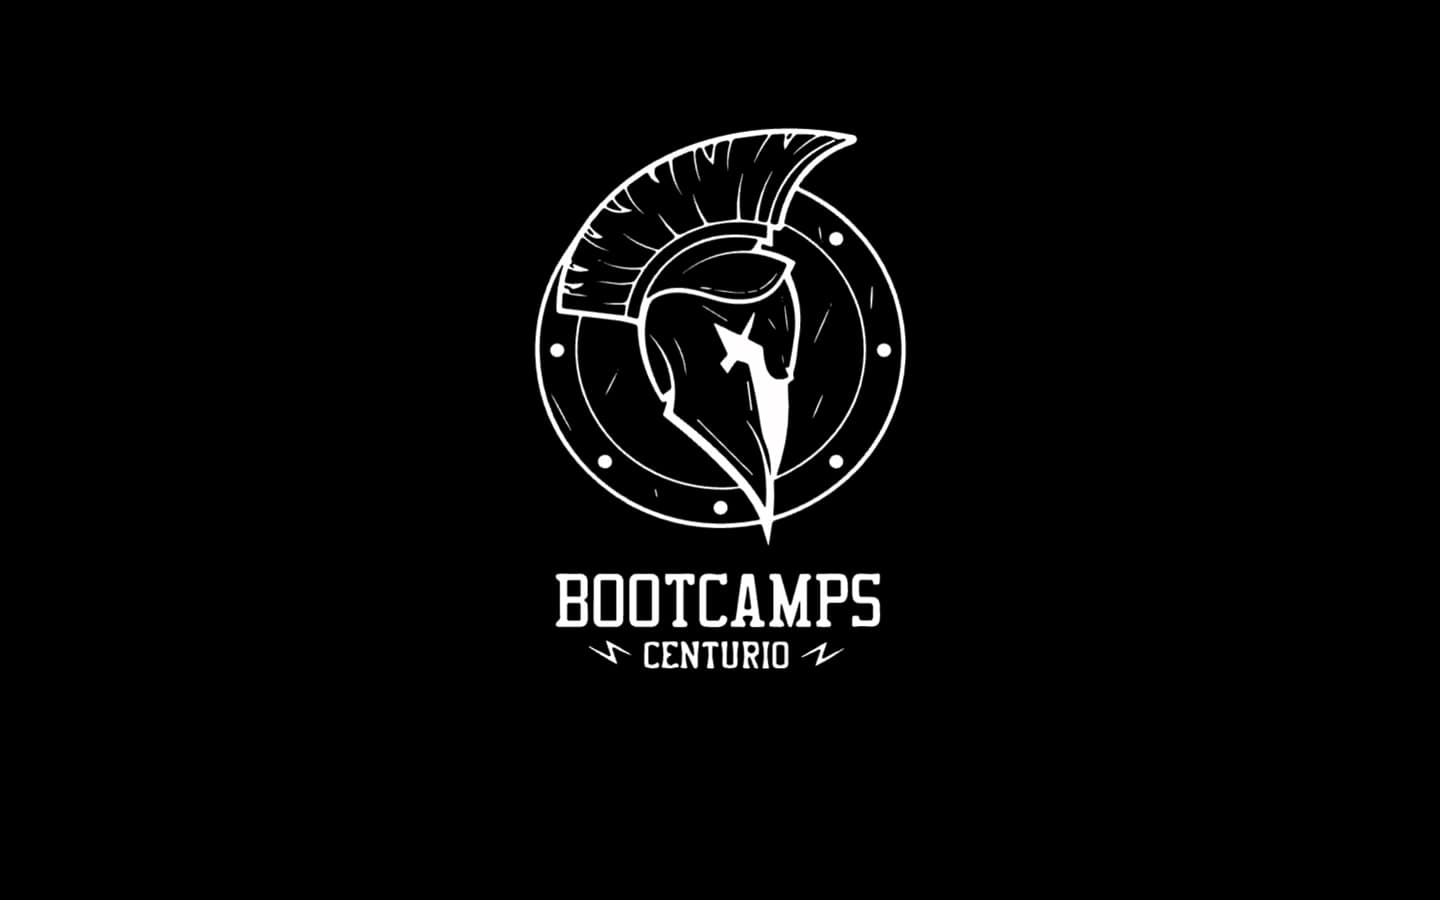
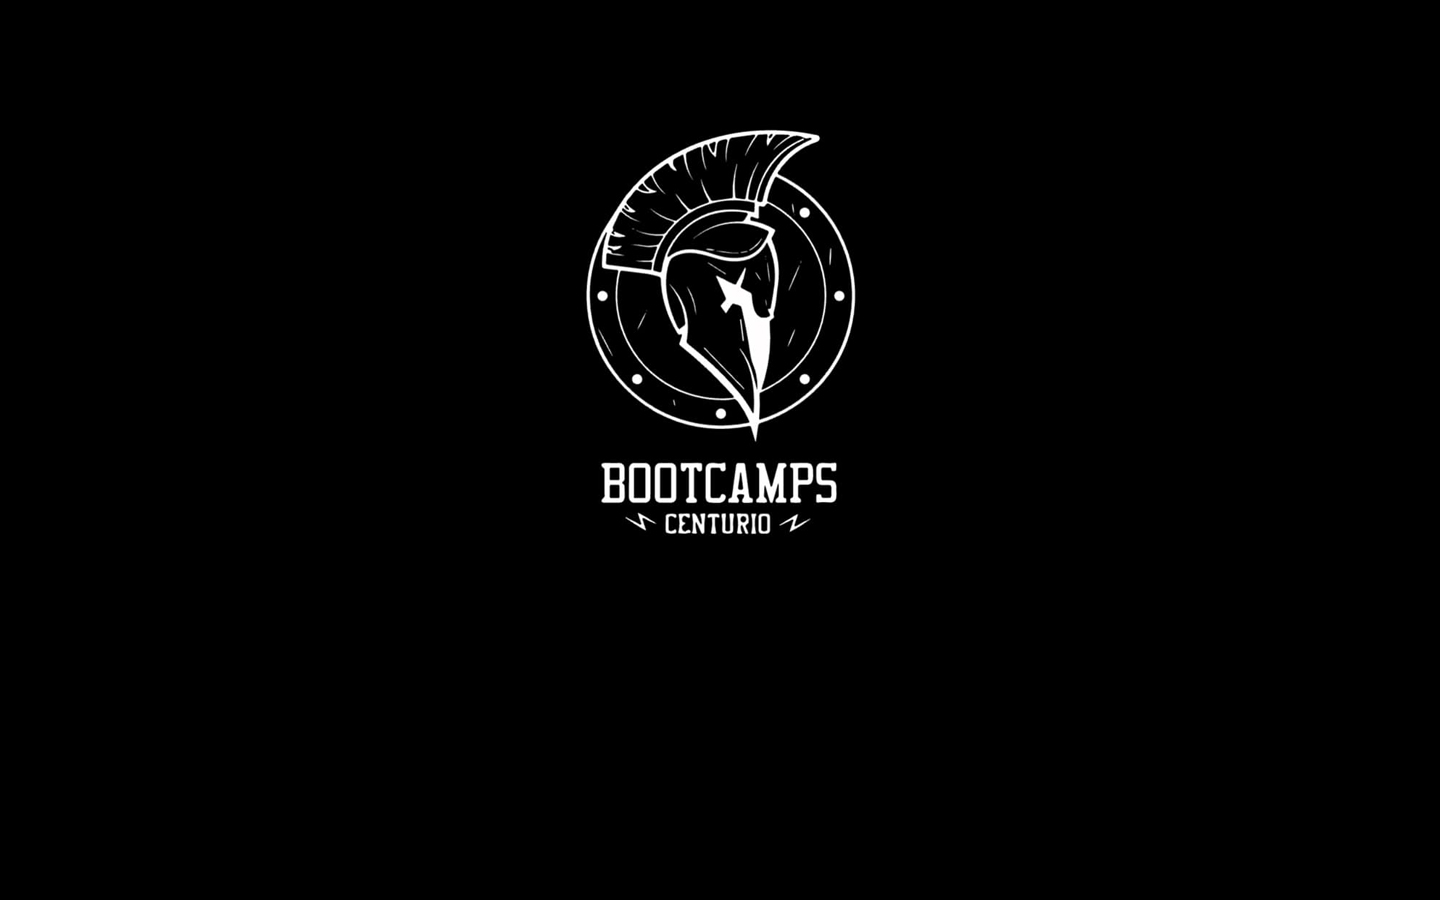
maj design

Changed region(s): [[0.3438, 0.1244, 0.6562, 0.5911], [0.375, 0.6222, 0.625, 0.7467]]

diff --git a/assets/styles/page/home.scss b/assets/styles/page/home.scss
@@ -44,21 +44,38 @@
 .swiper-pagination {
     position: static;
 }
-@keyframes changeBackground {
-  0% {
-    background: url('../../img/bootW-min.jpg') no-repeat top center;
-    background-color: #fff;
-  }
-  100% {
-    background: url('../../img/bootB-min.jpg') no-repeat top center;
-    background-color: #000;
-  }
-}
+
+// #home {
+//     background-color: #fff;
+//     animation: changeBackgroundColor ease-in-out 2s forwards ;
+//     height: 100vh;
+//   }
 #home {
-    background: url('../../img/bootW-min.jpg') no-repeat top center;
-    animation: changeBackground 2s forwards 2s;
-  }
-  
+  background-color: #fff;
+  animation: changeBackgroundColor ease-in-out 2s forwards;
+  height: 100vh;
+  overflow: hidden;
+  display: flex;
+  flex-direction: column;
+  justify-content: center;
+  align-items: center;
+}
+
+#home img {
+  max-width: 100%;
+  height: auto;
+  position: relative;
+  z-index: 1;
+}
+.transition-image {
+  transition: opacity 400ms ease-in-out; /* Transition pour un fondu */
+  opacity: 1; /* Par défaut visible */
+}
+
+.transition-image.hidden {
+  opacity: 0; /* Disparition avant le changement */
+}
+
   .textAccueil {
     color: #fff;
     text-align: justify;
@@ -112,14 +129,14 @@
   }
   
   .arrow-container {
-    position: relative;
-    top: 75%;
+    position: absolute;
+    top:90%;
     .arrow {
       display: inline-block;
       font-size: 60px;
       font-weight: bold;
       color: #000;
-      animation: bounce 2s infinite;
+      animation: bounce 2s infinite, changeColor 2s forwards;
     }
   }
   @keyframes bounceLeftRight {
@@ -135,9 +152,18 @@
       color: #fff; /* Couleur cible */
     }
   }
-  .clicMenu{
-    animation: bounceLeftRight 2s infinite, changeColor 2s ease-in-out 2s forwards;
+  @keyframes changeBackgroundColor {
+    to {
+      background-color: #000;
+    }
   }
+  .clicMenu{
+    position: absolute;
+    top: 1%;
+    left: 1%;
+    animation: bounceLeftRight 2s infinite, changeColor 2s forwards;
+  }
+  
   #calendarIndex {
     height: 500px;
     overflow-y: scroll;
@@ -187,11 +213,14 @@
     }
     #home {
       padding-left: 40px;
-      background-size: 90%;
-      background-color: #000;
-      background-position: center right;
+    
+
     }
-    .arrow-container {
-      top: 80%;
+    .clicMenu{
+      left: 8%; 
     }
+    .welcome {
+      text-align: justify !important;
+    }
+    
   }

diff --git a/assets/js/home.js b/assets/js/home.js
@@ -41,7 +41,16 @@ document.addEventListener('DOMContentLoaded', () => {
         }
     });
     initializeCalendar();
+ 
+    const image = document.querySelector('.transition-image'); // Sélectionne l'image
 
+    setTimeout(() => {
+        image.classList.add('hidden'); // Débute le fondu de disparition
+        setTimeout(() => {
+            image.src = "images/site/logo-blanc-bootcamp.webp"; // Change l'URL de l'image
+            image.classList.remove('hidden'); // Réapparaît avec la nouvelle image
+        }, 400); // Délai pour laisser le fondu disparaître
+    }, 1000); // Délai initial avant de changer l'image
 });
 document.querySelector('.arrow').addEventListener('click', function(event) {
     event.preventDefault();

diff --git a/assets/app.js b/assets/app.js
@@ -1,4 +1,4 @@
-import 'bootstrap';
+import * as bootstrap from 'bootstrap';
 import 'lineicons/dist/lineicons.css';
 import 'bootstrap-icons/font/bootstrap-icons.css';
 import './styles/app.scss';
@@ -30,4 +30,7 @@ window.addEventListener('scroll', function() {
         footer.classList.remove('footer-normal');
     }
 });
-
+var tooltipTriggerList = [].slice.call(document.querySelectorAll('[data-bs-toggle="tooltip"]'))
+var tooltipList = tooltipTriggerList.map(function (tooltipTriggerEl) {
+  return new bootstrap.Tooltip(tooltipTriggerEl)
+})
